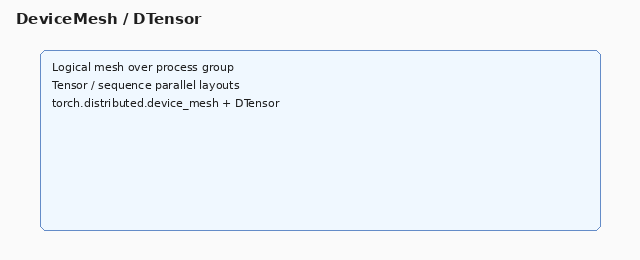
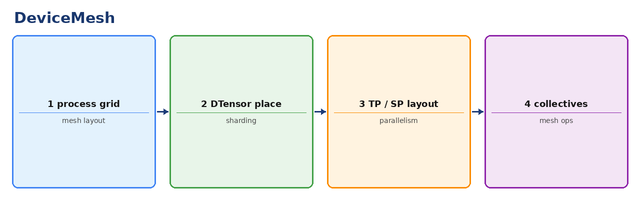
Unify flowcharts to the Dispatcher diagram style.
Use pastel bordered boxes, numbered LTR call stacks, and exact labels; keep mechanism/routing as the visual canon.

Changed region(s): [[0.0, 0.15, 1.0, 0.96], [0.0, 0.03, 0.3125, 0.12]]

diff --git a/docs/figures/README.md b/docs/figures/README.md
@@ -1,6 +1,8 @@
 # Figures
 
-Display convention: **width 640px** in Markdown (`<img width="640" …>`; **310** when two share a row). Tall call-stack figures use left-to-right layout; keep pastel documentation box style (not chip strips).
+Display width **640px** in Markdown (`310` when two share a row).
+
+**Style canon:** match `dispatcher_mechanism.jpg` / `dispatcher_backend_routing.jpg` — pastel fills with matching colored borders, rounded boxes, dark-blue arrows, numbered steps, bold titles + short subtitles, flat light background. Prefer left-to-right for long call stacks.
 
 | File | Topic |
 | --- | --- |
